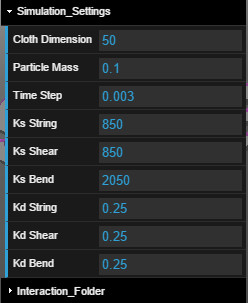
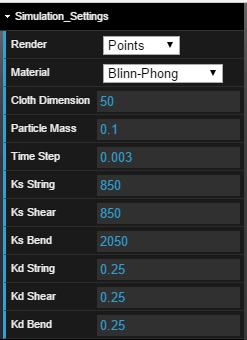
readme

Changed region(s): [[0.0, 0.0, 1.0, 1.0]]

diff --git a/js/gpgpu/SimulationShader.js b/js/gpgpu/SimulationShader.js
@@ -62,14 +62,16 @@ function getNeighbor() {
 function sphereCollision()
 {
     return [
-        'void sphereCollision(inout vec3 x, vec3 center, float r)',
+        'bool sphereCollision(inout vec3 x, vec3 center, float r)',
         '{',
         '   r *= 1.01;',
 	    '   vec3 delta = x - center;',
         '   float dist = length(delta);',
         '   if (dist < r) {',
         '       x = center + delta*(r / dist);',
+        '       return true;',
         '   }',
+        '   return false;',
         '} ',
     ].join('\n');
 }
@@ -417,6 +419,7 @@ GPGPU.SimulationShader = function () {
             commonUniforms(),
             'float DAMPING = -0.0125;',
             getNeighbor(),
+            sphereCollision(),
             'void main() {',
             '  vec4 pos = texture2D( tPositions, vUv );',
             '   vec3 F = vec3(0.0,-9.8*0.1,0.0);',//TODO:mass
@@ -457,9 +460,12 @@ GPGPU.SimulationShader = function () {
 /****************
 *****************/
             '   vec3 acc = F/0.1;',//TODO:mass
+            'bool sphereCol = false;',
+            'if(u_rigid==0) sphereCol = sphereCollision(pos.xyz,vec3(0.5,0.45,0.4),0.28);',
             'bool pinBoolean = false;',
             isPin(),
             'if(pinBoolean) vel.xyz = vec3(0.0);else  vel.xyz += acc*timestep;',
+            //'if(sphereCol) vel.xyz*=0.95;',//TODO: direction
             '   gl_FragColor = vec4(vel.xyz,1.0);',
             '}',
         ].join('\n'),

diff --git a/README.md b/README.md
@@ -6,7 +6,7 @@ by: [Ziwei Zong](https://www.ziweizong.com)
 * LinkedIn: [Ziwei Zong](https://www.linkedin.com/in/ziweizong)
 * Twitter:  [@zzammie_zz](https://twitter.com/zammie_zz)
 
-Overview
+0.Overview
 --------------------------------------------
 
 Cloth Simulation using transform feedback for WebGL 2.0 supported browsers and ping-ponging texture method for browsers only supporting WebGL 1.0.
@@ -22,16 +22,16 @@ WebGL 1.0 version tested successfully on Chrome(Windows), Chrome Canary (Windows
 
 ![](Image/image.PNG)
 
-Instructions
+1.Instructions
 --------------------------------------------
 
-#### How to use
+#### 1.1 How to use
 
-##### Enable WebGL 2.0
+##### 1.1.1 Enable WebGL 2.0
 
-##### Features
+##### 1.1.2 Features
 
-* WebGL 1.0 & WebGL 2.0
+* **WebGL 1.0 & WebGL 2.0**
 
 If the project is running on browser that supports only WebGL 1.0, there would be a "WebGL Cloth Simulaiton" object in the scene.
 Otherwise, if the browser supports WebGL 2.0, there would be "WebGL 2 Cloth Simulation" instead and the simulation is using transform feedback.
@@ -40,13 +40,21 @@ Otherwise, if the browser supports WebGL 2.0, there would be "WebGL 2 Cloth Simu
 |:-------------------------:|:-------------------:
 |![](Image/WebGL1.PNG)		|![](Image/WebGL2.PNG)
 
-* Settings and Basic Animation Control
+* **Settings and Basic Animation Control**
 
 ![](Image/Settings.PNG)|![](Image/AnimationControl.PNG)
 
-* Interactions
+(1) Render Mode
 
-** RigidBody
+|Points						|Triangle
+|:-------------------------:|:-------------------:
+|![](Image/SettingPoint.PNG)|![](Image/SettingTri.PNG)
+|:-------------------------:|:-------------------:
+|![](Image/Points.PNG)		|![](Image/Triangles.PNG)
+
+* **Interactions**
+
+* * (1) RigidBody
 
 ![](Image/RigidControl.PNG)
 
@@ -56,17 +64,17 @@ Cloth-Rigidbody collision is more stable in WebGL2 implementation than in WebGL1
 |:-------------------------:|:-------------------:
 |![](Image/Rigid1.PNG)		|![](Image/Rigid2.PNG)
 
-** Wind
+(2) Wind
 
 TODO: add pic here
 
-** Pins
+(3) Pins
 
 ![](Image/Pins.PNG)
 
 TODO: movable pin gif.
 
-#### Implementation
+#### 1.2 Implementation
 
 ##### Transform Feedback
 
@@ -74,12 +82,12 @@ TODO: movable pin gif.
 
 ##### Unsolved (UBO)
 
-Performance Analysis
+2.Performance Analysis
 --------------------------------------------
 
-#### Cloth Dimension (Particle Number)
+#### 2.1 Cloth Dimension (Particle Number)
 
-#### Code Quality
+#### 2.2 Code Quality
 
-References
+3.References
 --------------------------------------------
